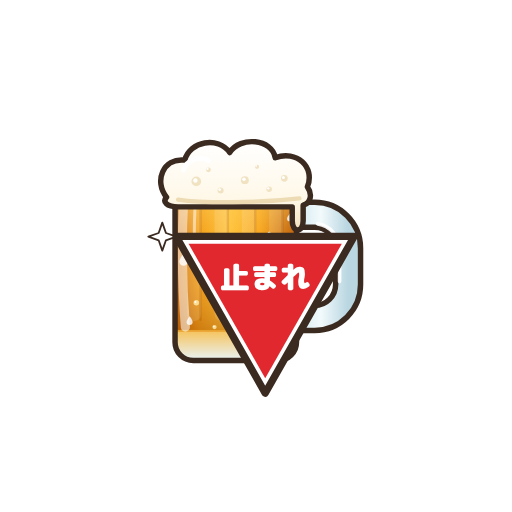
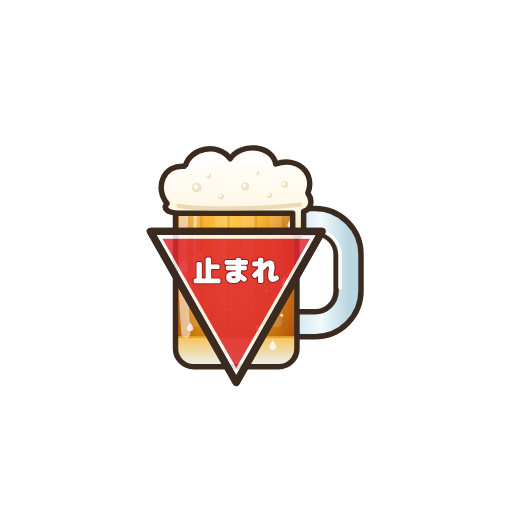
アイコンを更新（「止まれ」を半透明にしてジョッキの中心に重ねる）
Claude-Session: https://claude.ai/code/session_017mCzt6dQSYugn4HfwzJZsL

Changed region(s): [[0.2812, 0.25, 0.7188, 0.7812]]

diff --git a/README.md b/README.md
@@ -18,7 +18,7 @@
 - `src/Icons.tsx` … ジョッキとお水のイラスト
 - `src/TitleLogo.tsx` … 冒頭画面のタイトル
 - `src/WoodBackground.tsx` … 木目の背景
-- `assets/icon.png` … アプリのアイコン（ジョッキ＋「止まれ」、1024×1024）
+- `assets/icon.png` … アプリのアイコン（ジョッキの中心に半透明の「止まれ」、1024×1024）
 - `public/index.html` … Web版のHTMLの雛形（iPhoneのホーム画面用アイコン `public/apple-touch-icon.png` を指定）
 
 ## 開発
